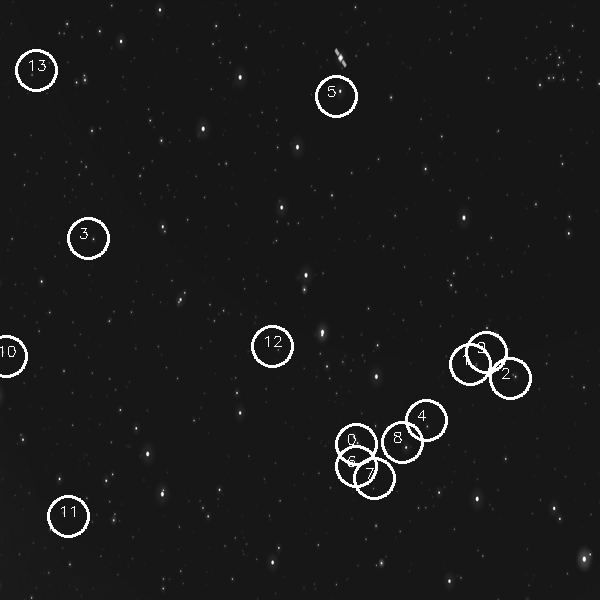
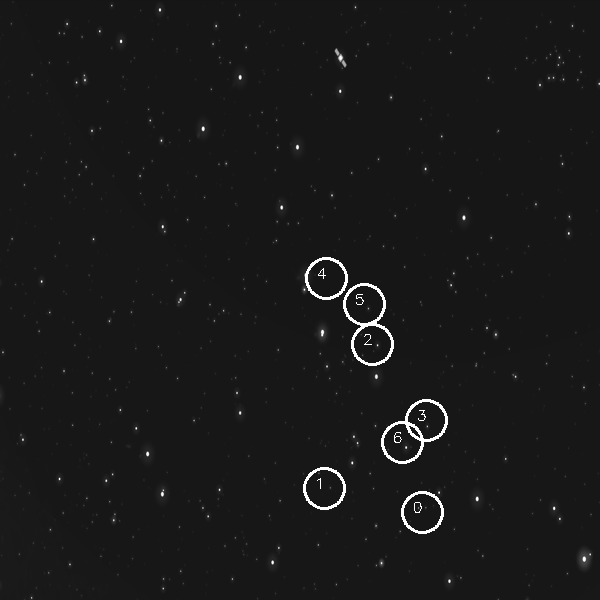
added results

diff --git a/detect.py b/detect.py
@@ -3,4 +3,4 @@ import numpy as np
 from Algorithm import *
 
 algo = Algorithm()
-dst_inliner, src_inliners = algo.run(image1='pics/fr1.jpg', image2='pics/fr2.jpg')
+dst_inliner, src_inliners = algo.run(image1='pics/ST_db1.png', image2='pics/fr2.jpg')
